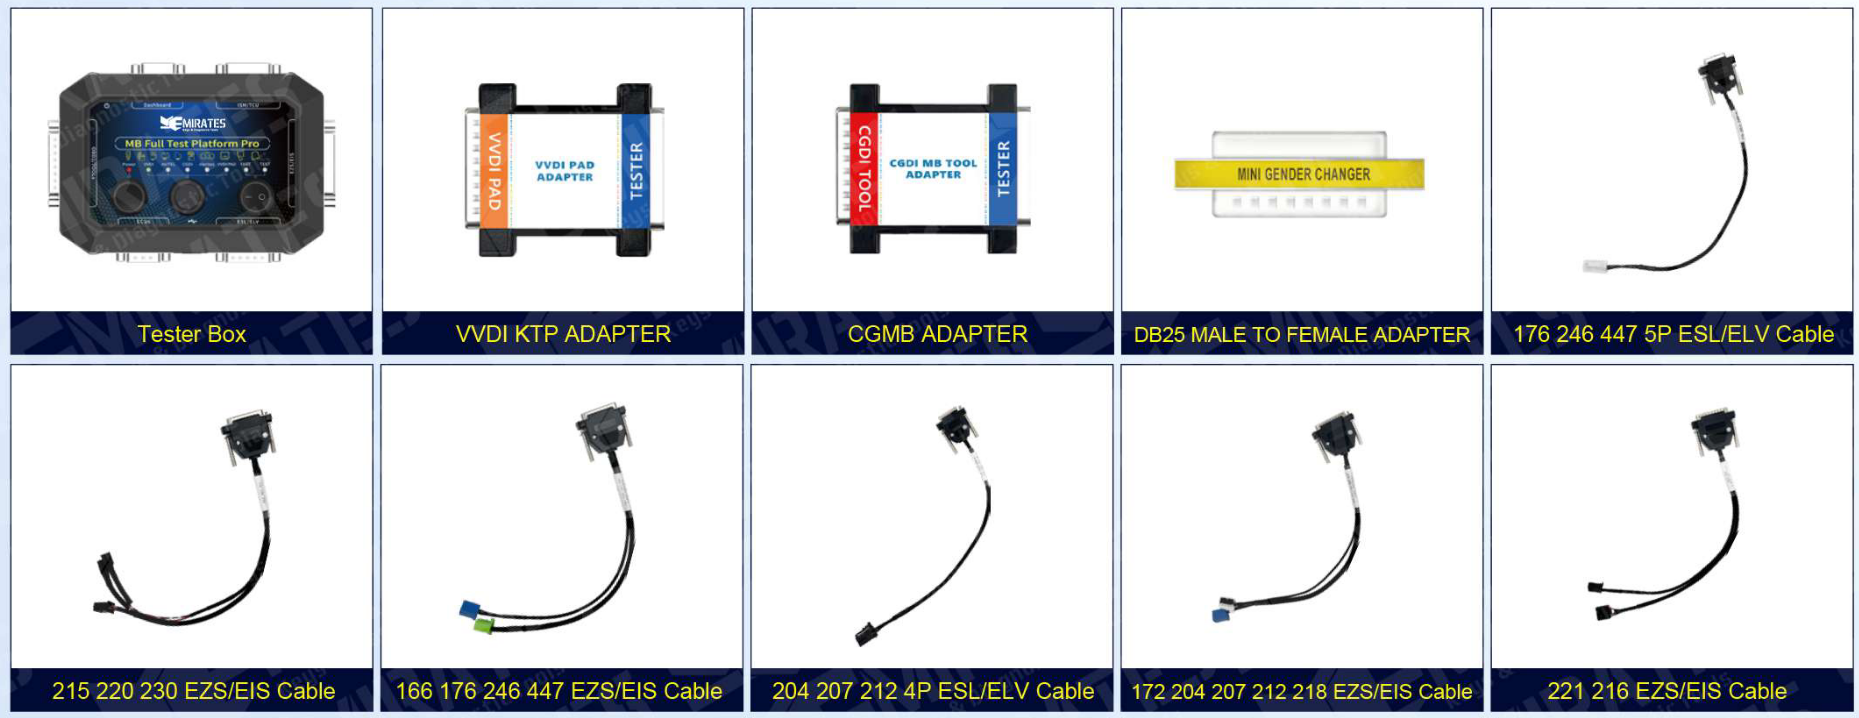
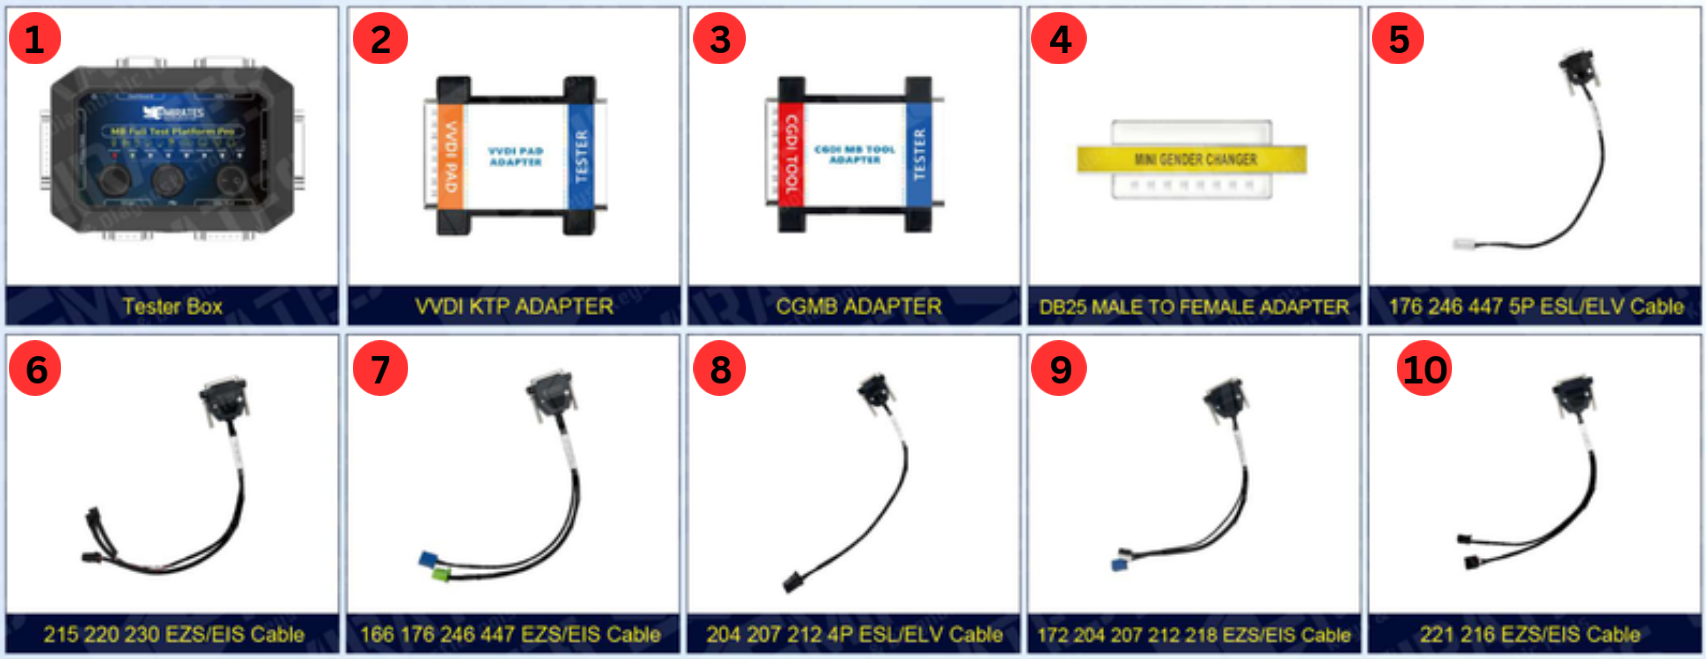
Here is a detailed commit message in the requested format:
docs: Update mk3-overview.md with new image source order
- Reorder images in "Adapters and DB Cables" section to match updated legend
- Remove unnecessary old images from "VVDI KTP Adapter", "CGMB Adapter" sections
- Add three new images for different types of DB cables

---
Files changed:
M	src/images/packing_list_1.png
A	src/images/packing_list_2.png
A	src/images/packing_list_3.png
M	src/tools/mk3-overview.md

diff --git a/src/tools/mk3-overview.md b/src/tools/mk3-overview.md
@@ -124,32 +124,24 @@ Based on the numbered legend in [Figure 3.3](#figure-33-mk3-side-panel-with-db-c
 
 ### Connector Cables and Adapters
 
-<img src="../images/packing_list_1.png" alt="VVDI KTP Adapter" style="width:100%; height:auto;">
+<img src="../images/packing_list_1.png" alt="Adapters and DB Cables" style="width:100%; height:auto;">
+<img src="../images/packing_list_2.png" alt="DB Cables" style="width:100%; height:auto;">
+<img src="../images/packing_list_3.png" alt="DB Cables" style="width:100%; height:auto;">
 
-- VVDI KTP Adapter
-- CGMB Adapter
-- DB25 Male to Female Adapter
-- 176 246 447 5P ESL/ELV Cable
-- 215 220 230 EZS/EIS Cable
-- 166 176 246 447 EZS/EIS Cable
-- 204 207 212 4P ESL/ELV Cable
-- 172 204 207 212 218 EZS/EIS Cable
-- 221 216 EZS/EIS Cable
-- 202 208 210 5P ESL/ELV Cable
-- 203 3P ESL/ELV Cable
-- 169 245 209 211 171 EZS/EIS Cable
-- 169 245 4P ESL/ELV Cable
-- ECUs Cable
-- 202 208 210 EZS/EIS Cable
-- 906 Sprinter Crafter EZS/EIS Cable
-- Dashboard Cable
-- ISM Cable
-- 7G/VGS Cable
-- 205 222 EZS/EIS Cable
-- 203 463 639 Vito EZS/EIS Cable
-- 164 251 EZS/EIS Cable
-- 203 209 211 219 639 906 5P ESL/ELV Cable
-- OBD Cable
+|     |                                   |     |                                          |
+| --- | --------------------------------- | --- | ---------------------------------------- |
+| 2.  | VVDI KTP Adapter                  | 14. | 169 245 4P ESL/ELV Cable                 |
+| 3.  | CGMB Adapter                      | 15. | ECUs Cable                               |
+| 4.  | DB25 Male to Female Adapter       | 16. | 202 208 210 EZS/EIS Cable                |
+| 5.  | 176 246 447 5P ESL/ELV Cable      | 17. | 906 Sprinter Crafter EZS/EIS Cable       |
+| 6.  | 215 220 230 EZS/EIS Cable         | 18. | Dashboard Cable                          |
+| 7.  | 166 176 246 447 EZS/EIS Cable     | 19. | ISM Cable                                |
+| 8.  | 204 207 212 4P ESL/ELV Cable      | 20. | 7G/VGS Cable                             |
+| 9.  | 172 204 207 212 218 EZS/EIS Cable | 21. | 205 222 EZS/EIS Cable                    |
+| 10. | 221 216 EZS/EIS Cable             | 22. | 203 463 639 Vito EZS/EIS Cable           |
+| 11. | 202 208 210 5P ESL/ELV Cable      | 23. | 164 251 EZS/EIS Cable                    |
+| 12. | 203 3P ESL/ELV Cable              | 24. | 203 209 211 219 639 906 5P ESL/ELV Cable |
+| 13. | 169 245 209 211 171 EZS/EIS Cable | 25. | OBD Cable                                |
 
 ## Why This Tool Matters
 
